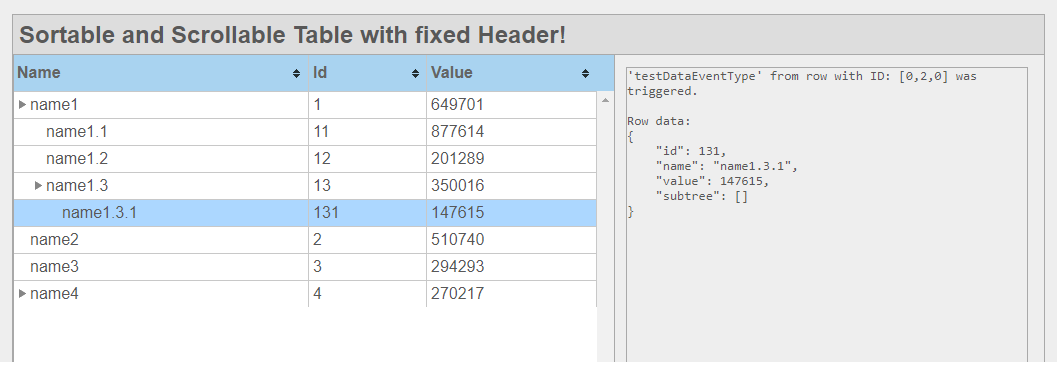
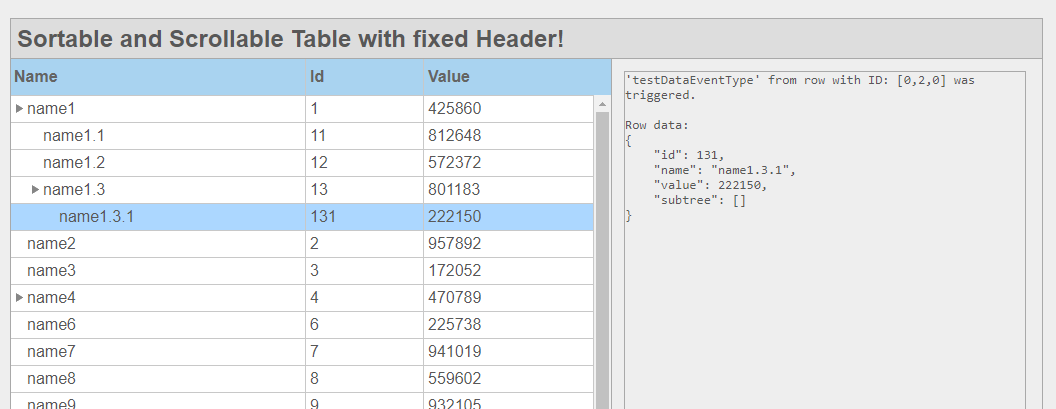
design improved

diff --git a/js/scrollableTable.js b/js/scrollableTable.js
@@ -108,6 +108,16 @@ var scrollableTable = function(id, wrapperId) {
         $('#'+id+' > thead > tr').children('th').each(function () {
             $(this).children().first().width( $(this).width() )
         })
+
+        refreshHeaderBackground()
+    }
+
+    var refreshHeaderBackground = function() {
+        if (isTreeTable) {
+            $('#scrollableTableHeader > tr > th > div').removeClass('scrollableTableHeaderBackground')
+        } else {
+            $('#scrollableTableHeader > tr > th > div').addClass('scrollableTableHeaderBackground')
+        }
     }
 
     this.setTreeTableContent = function(data, eventType, columns, subtreePropertyName) {

diff --git a/css/styles.css b/css/styles.css
@@ -22,7 +22,6 @@ body {
   left: -1px;
   width: 600px;
   display: block;
-  cursor: pointer;
 }
 
 .scrollableTableContainer {
@@ -45,6 +44,8 @@ body {
 
   padding: 4px 4px;
   padding-right: 30px;
+
+  cursor: pointer;
 }
 
 .scrollableTable th {
@@ -64,10 +65,14 @@ body {
   border-left: 1px solid rgb(200, 200, 200);
   text-align: left;
   white-space: normal;
+}
 
+.scrollableTableHeaderBackground {
   background-image: url('black-unsorted.gif');
   background-repeat: no-repeat;
   background-position: center right;
+
+  cursor: pointer;
 }
 
 .scrollableTable th:first-child div{
